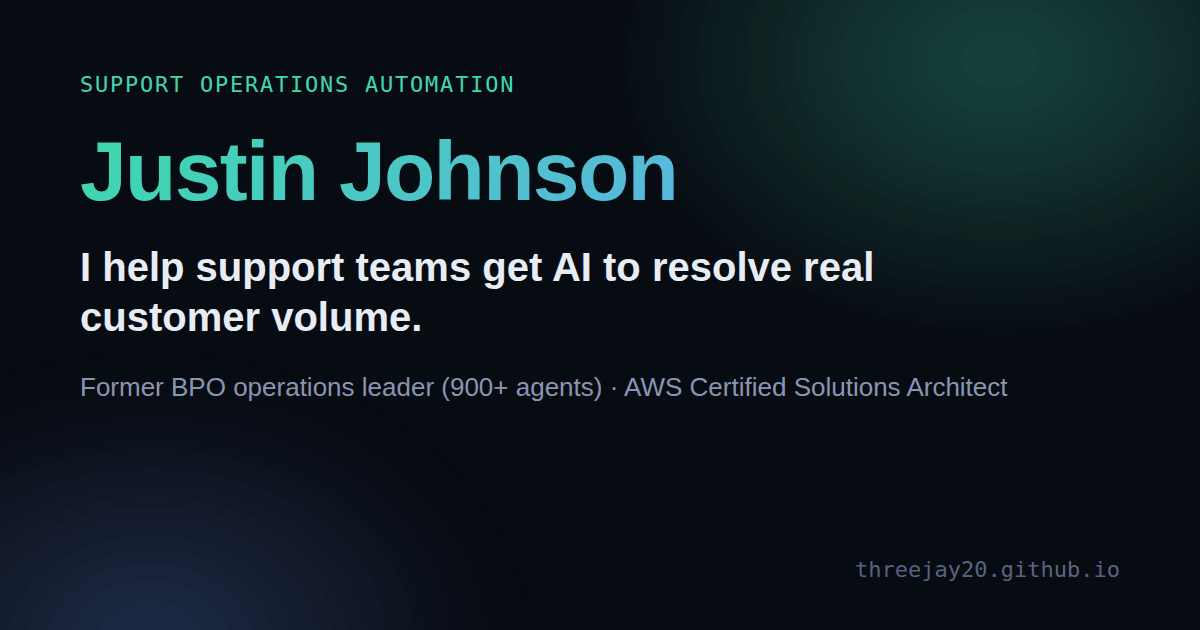
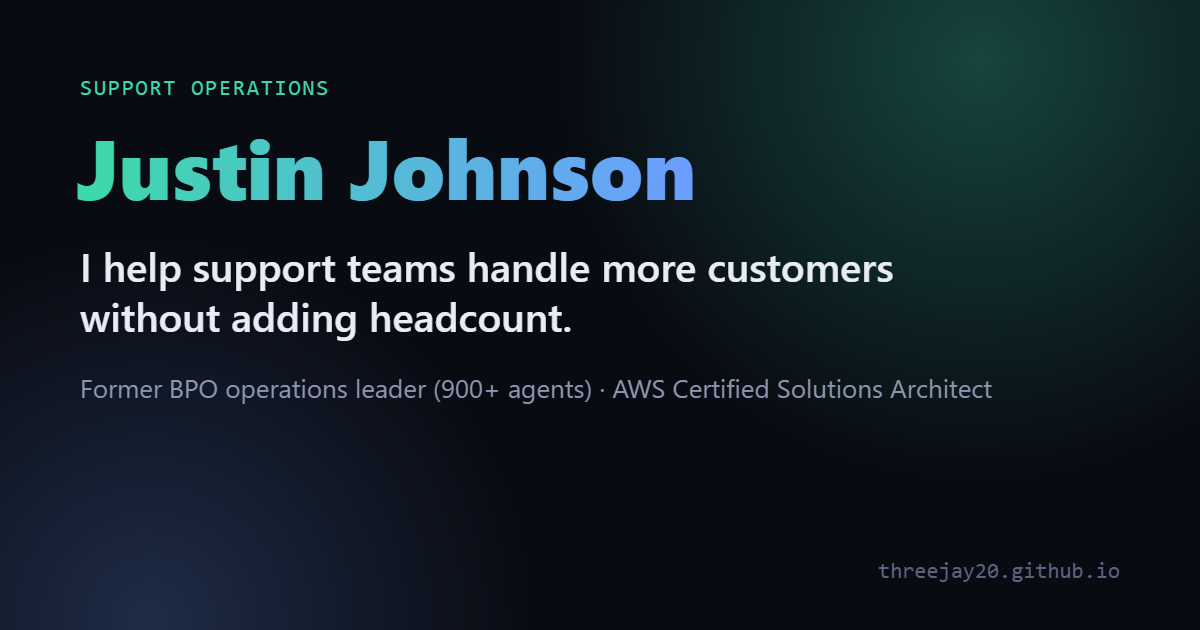
Lead with support operations instead of AI on the portfolio

diff --git a/index.html b/index.html
@@ -4,20 +4,20 @@
 <meta charset="UTF-8">
 <meta name="viewport" content="width=device-width, initial-scale=1.0">
 <title>Justin Johnson · Support Operations Automation &amp; Cloud Engineering</title>
-<meta name="description" content="I help support teams get AI to resolve real customer volume. Former BPO operations leader (900+ agents), now an AWS Certified Solutions Architect building cloud and AI systems.">
-<meta name="keywords" content="Support operations, AI customer support, support automation, BPO operations, AWS, cloud engineering, DevOps">
+<meta name="description" content="I help support teams handle more customers without adding headcount. Former BPO operations leader (900+ agents), now an AWS Certified Solutions Architect building automation and cloud systems.">
+<meta name="keywords" content="Support operations, customer support efficiency, support automation, BPO operations, AWS, cloud engineering, DevOps">
 <meta name="author" content="Justin Johnson">
 <meta property="og:type" content="website">
 <meta property="og:url" content="https://threejay20.github.io">
 <meta property="og:title" content="Justin Johnson · Support Operations Automation &amp; Cloud Engineering">
-<meta property="og:description" content="I help support teams get AI to resolve real customer volume. Former BPO operations leader (900+ agents), now an AWS Certified Solutions Architect building cloud and AI systems.">
+<meta property="og:description" content="I help support teams handle more customers without adding headcount. Former BPO operations leader (900+ agents), now an AWS Certified Solutions Architect building automation and cloud systems.">
 <meta property="og:image" content="https://threejay20.github.io/og-image.png">
 <meta property="og:image:width" content="1200">
 <meta property="og:image:height" content="630">
 <meta name="twitter:image" content="https://threejay20.github.io/og-image.png">
 <meta name="twitter:card" content="summary_large_image">
 <meta name="twitter:title" content="Justin Johnson · Support Operations Automation &amp; Cloud Engineering">
-<meta name="twitter:description" content="I help support teams get AI to resolve real customer volume. Former BPO operations leader (900+ agents), now an AWS Certified Solutions Architect building cloud and AI systems.">
+<meta name="twitter:description" content="I help support teams handle more customers without adding headcount. Former BPO operations leader (900+ agents), now an AWS Certified Solutions Architect building automation and cloud systems.">
 <meta name="theme-color" content="#080b12">
 <link rel="manifest" href="data:application/json,{%22name%22:%22jj.dev%22,%22short_name%22:%22jj.dev%22,%22start_url%22:%22/%22,%22display%22:%22standalone%22,%22background_color%22:%22%23080b12%22,%22theme_color%22:%22%23080b12%22}">
 <style>
@@ -861,8 +861,8 @@ section { overflow: hidden; }
         </div>
         <p class="lede">
           I ran BPO support operations for 900+ agents, then became a cloud engineer.
-          Now I help support teams get AI to resolve real customer volume, and prove it in the numbers leadership already watches:
-          resolution rate, service levels, customer satisfaction and cost per contact.
+          Now I help support teams handle more customers without adding headcount, using process, automation, reporting and integrations,
+          and prove it in the numbers leadership already watches: cost per contact, service levels and customer satisfaction.
         </p>
         <div class="hero-stats">
           <div class="stat"><span class="stat-num" data-count="900" data-suffix="+">900+</span><span class="stat-label">BPO agents led</span></div>
@@ -954,7 +954,7 @@ section { overflow: hidden; }
       <div class="section-line"></div>
     </div>
     <h2 class="reveal">The dashboard that hid our SLA breaches</h2>
-    <p class="section-subtitle reveal">A short case study from running BPO support operations. It is the lens I bring to AI in support today.</p>
+    <p class="section-subtitle reveal">A short case study from running BPO support operations. It is the lens I bring to every support team I work with.</p>
     <div class="project reveal">
       <span class="label-tag pro">Professional experience · Bell Canada · 2020 to 2022</span>
       <div class="case-grid">
@@ -980,7 +980,7 @@ section { overflow: hidden; }
           <p>SLA attainment up 15%, fewer undetected breaches, lower overtime spend, and clear ownership during incidents.</p>
         </div>
       </div>
-      <div class="why-line"><strong>Why it matters now:</strong> AI in support fails for the same reasons my dashboards did. Nobody sees the right number in time, and nobody owns fixing it. I set up the measurement first, then fix the knowledge and workflows behind the AI.</div>
+      <div class="why-line"><strong>Why it matters now:</strong> most support problems I see today have the same shape. Nobody sees the right number in time, and nobody owns fixing it. I set up the measurement first, then fix the process, automation and systems behind it.</div>
     </div>
   </div>
 </section>
@@ -1389,8 +1389,8 @@ section { overflow: hidden; }
 <!-- ── FOOTER / CONTACT ── -->
 <footer id="contact">
   <div class="wrap">
-    <div class="foot-cta reveal">Is your support AI <span class="g">pulling its weight</span>?</div>
-    <p class="foot-sub reveal">I am taking on a small number of founding clients for a two-week support automation diagnostic.</p>
+    <div class="foot-cta reveal">Is your support team growing <span class="g">faster than your revenue</span>?</div>
+    <p class="foot-sub reveal">I am taking on a small number of founding clients for a two-week support operations diagnostic.</p>
     <div class="foot-links reveal">
       <a class="foot-link primary" href="consulting/">Work with me →</a>
       <a class="foot-link" href="mailto:justinjjohnson20@gmail.com">✉ justinjjohnson20@gmail.com</a>

diff --git a/README.md b/README.md
@@ -9,7 +9,7 @@ Personal site of Justin Johnson: support operations automation and cloud enginee
 | Path | What it is |
 | --- | --- |
 | `index.html` | Portfolio: impact, an operations case study, career timeline, personal projects, skills and credentials |
-| `consulting/index.html` | Work with me: the support automation diagnostic, AI resolution sprint and ongoing optimisation |
+| `consulting/index.html` | Work with me: the support operations diagnostic, operations improvement sprint and ongoing optimisation |
 | `og-image.png` | 1200 x 630 preview image used when the site is shared on LinkedIn and other platforms |
 
 ## How it is built
